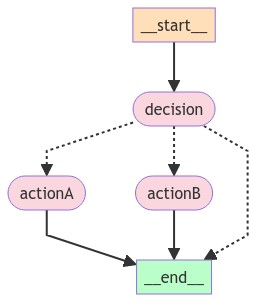
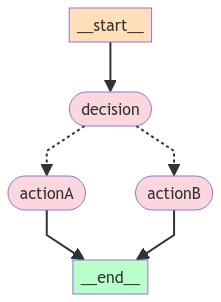
15-langgraph-intro conditional-edges final

diff --git a/demos/🦜_langchain/15-langgraph-intro/conditional-edges.js b/demos/🦜_langchain/15-langgraph-intro/conditional-edges.js
@@ -1,5 +1,4 @@
 import { END, START, MessageGraph } from '@langchain/langgraph'
-import * as fs from "fs"
 
 const funcA = input => { input[0].content += 'Result A'; return input }
 const funcB = input => { input[0].content += 'Result B'; return input }
@@ -10,26 +9,31 @@ const funcDecision = input =>
         'actionB'
 
 const graph = new MessageGraph()
-    // nodes
-    .addNode('decision', funcDecision)
+
+// setup nodes
+graph.addNode('decision', funcDecision)
     .addNode('actionA', funcA)
     .addNode('actionB', funcB)
-    // edges
-    .addEdge(START, "decision")
+
+// setup edges
+graph.addEdge(START, "decision")
     .addConditionalEdges(
         "decision", 
-        funcDecision
+        funcDecision, 
+        {'actionA': 'actionA', 'actionB': 'actionB'}
     )
     .addEdge('actionA', END)
     .addEdge('actionB', END)
 
 const runnable = graph.compile()
-
-const result = await runnable.invoke('Input - use action A ')
-
+const result = await runnable.invoke('Input - use action B ')
 console.log(result)
 
-const x = runnable.getGraph()
-const image = await x.drawMermaidPng()
-const arrayBuffer = await image.arrayBuffer()
-await fs.writeFileSync('condition.png', new Uint8Array(arrayBuffer))
+/*
+HumanMessage {
+    "id": "c6e0e2fe-bb8b-494b-a019-bd54ad7cbbf4",
+    "content": "Input - use action B Result B",
+    "additional_kwargs": {},
+    "response_metadata": {}
+  }
+*/
